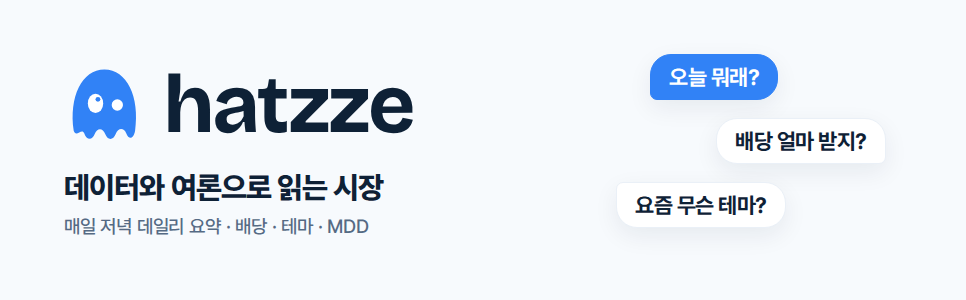
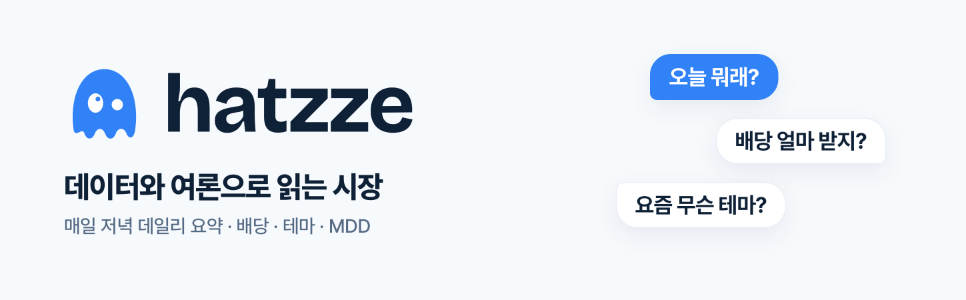
✨ 네이버 블로그 이미지를 세 배로 그려 줄인다 — 같은 크기, 글자 색 번짐 없이
"같은 크기에 화질만 고화질로"라는 요청이었다. 크기 그대로 찍으면 크롬이 LCD 서브픽셀로
글자를 다듬어 가장자리에 분홍·하늘색 번짐이 남고, 유령 윤곽이 계단진다. 세 배로 그린 뒤
제 크기로 줄이고 --disable-lcd-text 를 준다. 픽셀 수는 규격 그대로다.
두 배 타이틀(1932×600)은 같은 크기를 원한다고 해서 뺐다.

Claude-Session: https://claude.ai/code/session_01NYPREd8KUy5qDeGBZkBmYX

diff --git a/docs/naver-blog/README.md b/docs/naver-blog/README.md
@@ -9,16 +9,17 @@
 | `profile-512.png` | 관리 > 기본 설정 > 블로그 정보 > 프로필 이미지 | 512×512 |
 | `mobile-cover-1080x1300.png` | 블로그 앱 > 내 블로그 > 홈 편집 > 커버 이미지 | 1080×1300 |
 | `pc-title-966x300.png` | 관리 > 꾸미기 설정 > 세부 디자인 설정 > 타이틀 > 직접 등록 | 966×300 |
-| `pc-title-966x300@2x.png` | 위와 같은 자리 | 1932×600 (같은 판을 두 배로) |
 | `widget-170x600@2x.png` | 관리 > 꾸미기 설정 > 레이아웃·위젯 설정 > 위젯 직접등록 | 170×600 (두 배로 찍음) |
 
 메뉴 이름은 네이버가 바꾸면 달라질 수 있다.
+
+네 장 모두 세 배로 크게 그린 뒤 제 크기로 줄였다. 픽셀 수는 규격 그대로이고, 글자 가장자리의 색 번짐과 윤곽의 계단만 없앴다(`render.mjs` 의 `SUPERSAMPLE`).
 
 ## 올릴 때 챙길 것
 
 - **프로필**: 모서리를 둥글리지 않았다. 네이버가 원으로 잘라 보여서, 둥근 모서리를 두면 두 번 깎인다.
 - **모바일 커버**: 아래 3분의 1쯤은 일부러 비워 두었다. 네이버가 그 자리에 블로그명·별명·이웃추가 단추를 얹는다. 커버 스타일은 글자가 아래에 오는 것을 고른다. 얹힌 글자가 밝은 바탕에서 잘 안 읽히면 어두운 판 커버를 쓴다(글자 색은 올려 보고 확인한다). 폰과 PC는 서로 다른 그림을 보여 주니 섞어 써도 된다.
-- **PC 타이틀**: 로고와 슬로건이 그림에 들어 있다. 타이틀 영역 높이를 300으로 맞추고, 블로그 제목 글자 표시는 끈다. 켜 두면 제목이 두 번 나온다. 두 배 판을 먼저 올려 본다. 네이버가 966에 맞춰 줄여 보여 주면 선명한 화면에서도 글자가 또렷하다. 줄이지 않고 잘라 보여 주면 966 판을 쓴다.
+- **PC 타이틀**: 로고와 슬로건이 그림에 들어 있다. 타이틀 영역 높이를 300으로 맞추고, 블로그 제목 글자 표시는 끈다. 켜 두면 제목이 두 번 나온다.
 - **위젯**: 위젯은 파일이 아니라 HTML을 받는다. 비공개 글에 이 그림을 올리고 그림 주소를 복사해 아래 `이미지 주소` 자리에 넣는다. 그림은 두 배 크기라 `width="170"` 을 꼭 준다.
 
 ```html
